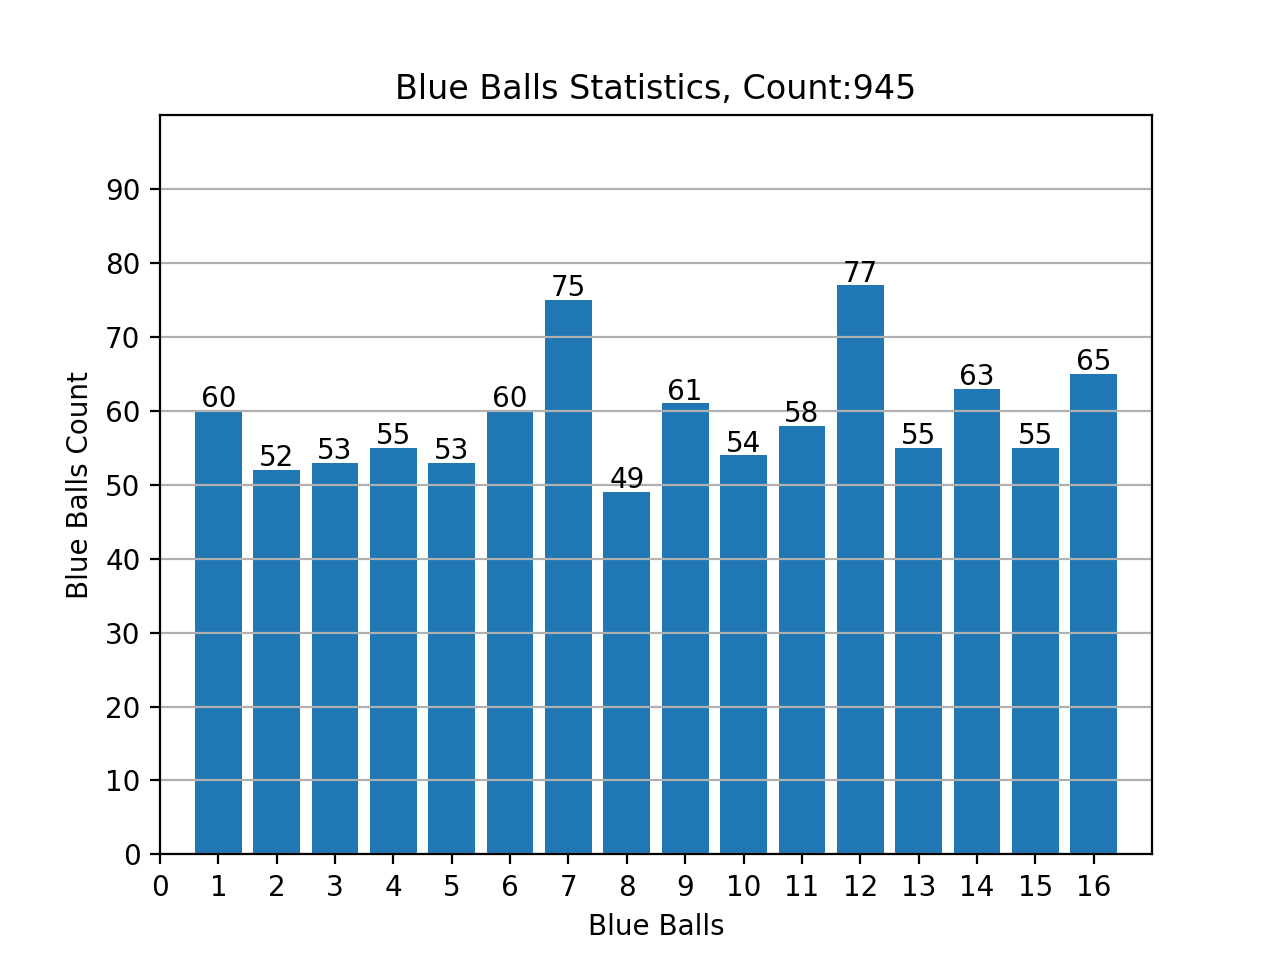
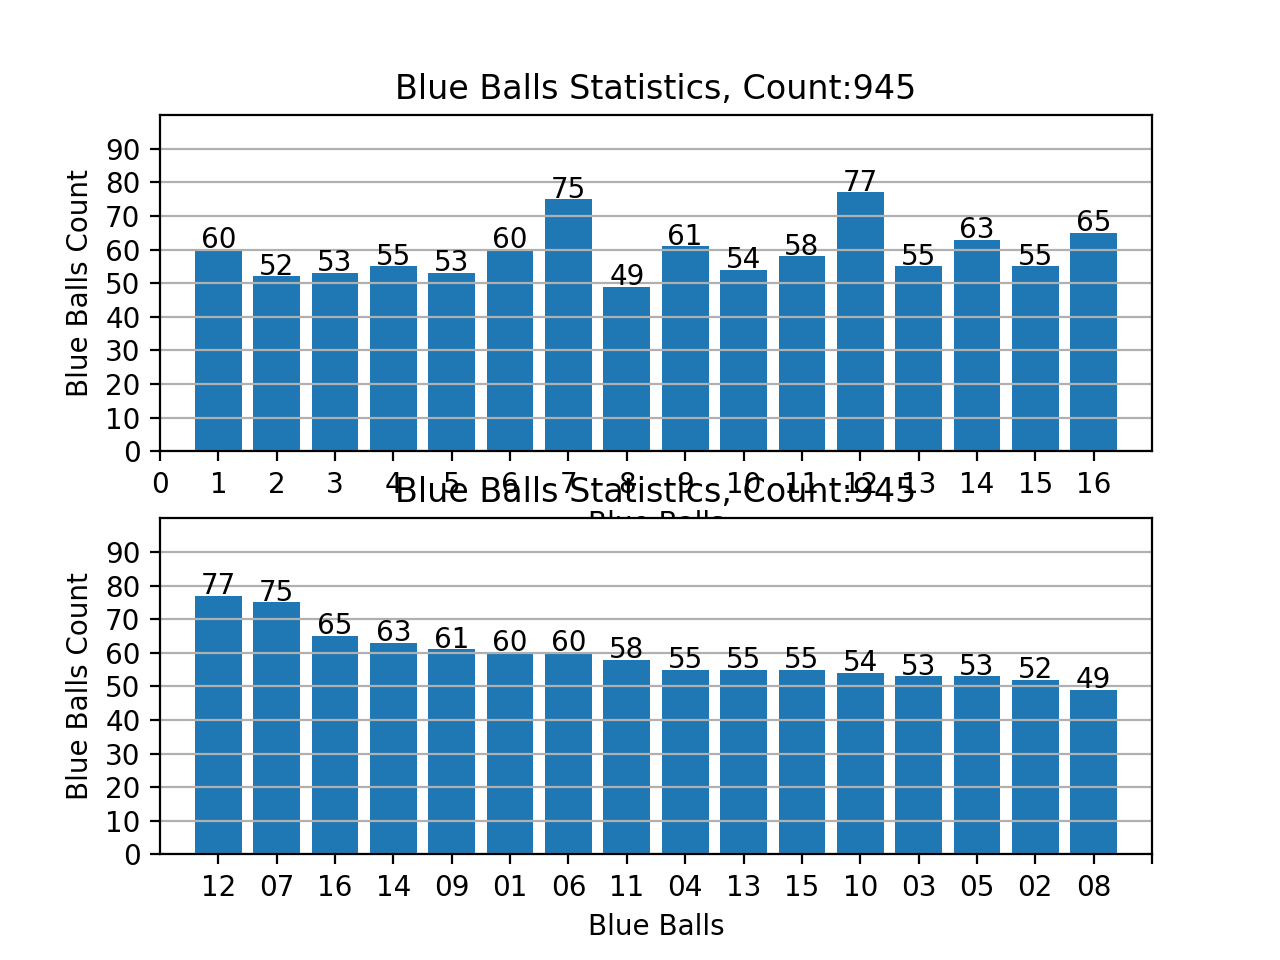
蓝球统计数据生成

diff --git a/DataShow/DataVisual.py b/DataShow/DataVisual.py
@@ -24,6 +24,8 @@ def blue_statistics_visual():
     show_ball = []
     for ball in blue_ball:
         show_ball.append(int(ball))
+
+    pyplot.subplot(2, 1, 1)
     pyplot.xlabel(r"Blue Balls")
     pyplot.ylabel(r"Blue Balls Count")
     pyplot.title(r"Blue Balls Statistics, Count:{0}".format(sum(blue_statistics)))
@@ -36,7 +38,34 @@ def blue_statistics_visual():
     for x, y in zip(show_ball, blue_statistics):
         pyplot.text(x, y+0.5, y, ha='center')
     pyplot.grid(axis="y")
+    # pyplot.savefig(r"{0}\..\image\BlueBallsStatistics.png".format(os.getcwd()), dpi=200)
+    # pyplot.show()
+
+    blue_balls_temp = {}
+    for key, value in zip(blue_ball, blue_statistics):
+        blue_balls_temp[key] = value
+    blue_balls_sort = []
+    blue_statistics_sort = []
+    for key, value in sorted(blue_balls_temp.items(), key=lambda item: item[1], reverse=True):
+        blue_balls_sort.append(key)
+        blue_statistics_sort.append(value)
+    print(blue_balls_sort)
+    print(blue_statistics_sort)
+
+    pyplot.subplot(2, 1, 2)
+    pyplot.xlabel(r"Blue Balls")
+    pyplot.ylabel(r"Blue Balls Count")
+    pyplot.title(r"Blue Balls Statistics, Count:{0}".format(sum(blue_statistics_sort)))
+    pyplot.xlim((-1, 16))
+    pyplot.ylim((0, 100))
+    pyplot.xticks(range(0, 17, 1))
+    pyplot.yticks(range(0, 100, 10))
+    pyplot.bar(blue_balls_sort, blue_statistics_sort)
+    for x, y in zip(blue_balls_sort, blue_statistics_sort):
+        pyplot.text(x, y+0.5, y, ha='center')
+    pyplot.grid(axis="y")
     pyplot.savefig(r"{0}\..\image\BlueBallsStatistics.png".format(os.getcwd()), dpi=200)
+
     pyplot.show()
 
 
@@ -80,4 +109,4 @@ def blue_visual():
 if __name__ == "__main__":
     # blue_visual()
     blue_statistics_visual()
-    red_statistics_visual()
+    # red_statistics_visual()

diff --git a/DataShow/DataHandle.py b/DataShow/DataHandle.py
@@ -20,12 +20,15 @@ def red_statistics():
     red_balls_summary = []
     for balls in red_balls:
         for ball in balls.split(','):
-            red_balls_summary.append(ball)
+            red_balls_summary.append(int(ball))
     red_balls_int = []
     red_balls_statistics = []
     for key, group in itertools.groupby(sorted(red_balls_summary)):
         red_balls_int.append(int(key))
         red_balls_statistics.append(list(group).__len__())
+
+    for i in range(1, 34):
+        print(red_balls_summary.count(i))
     return red_balls_int, red_balls_statistics
 
 
